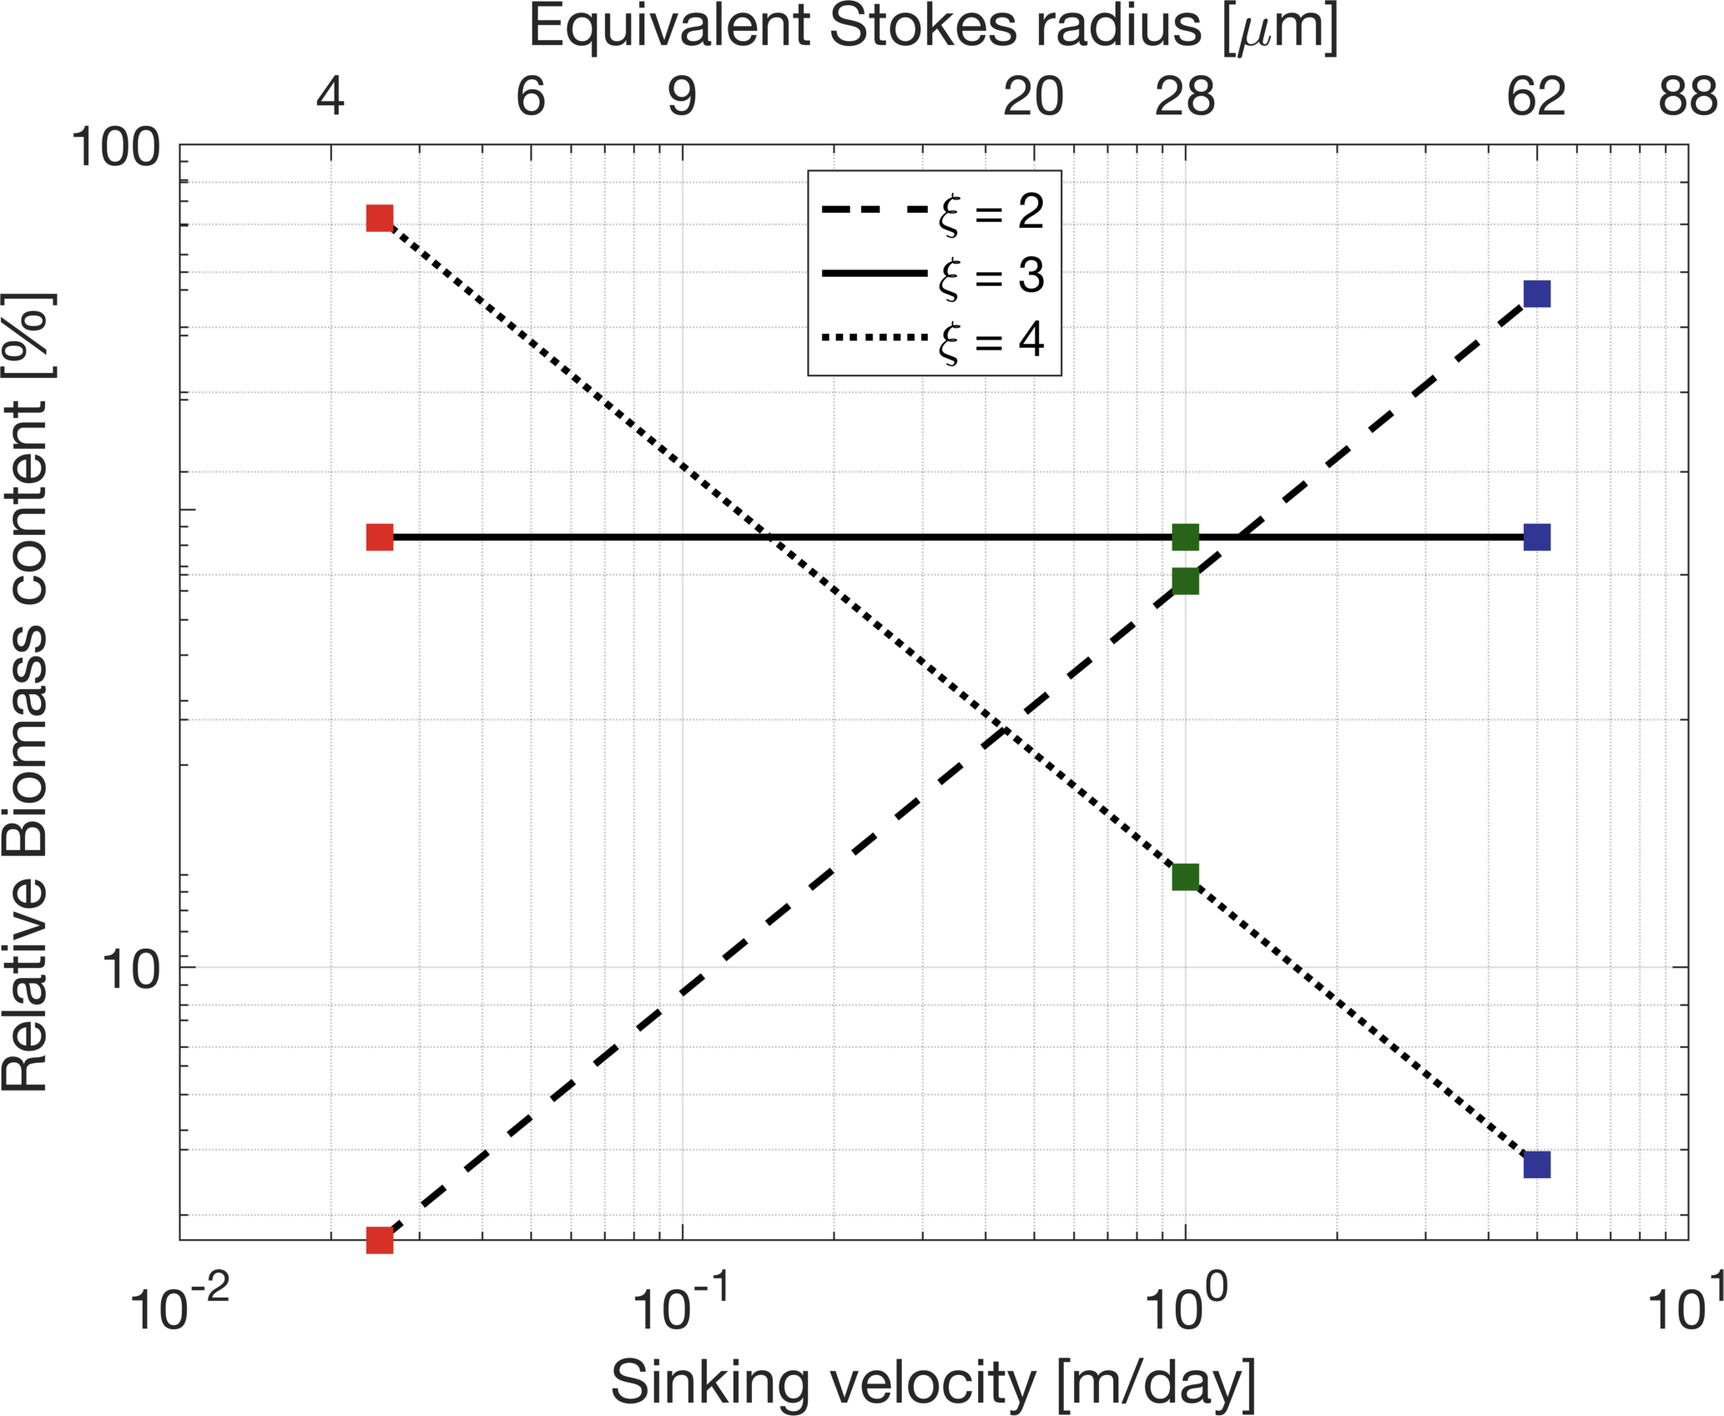
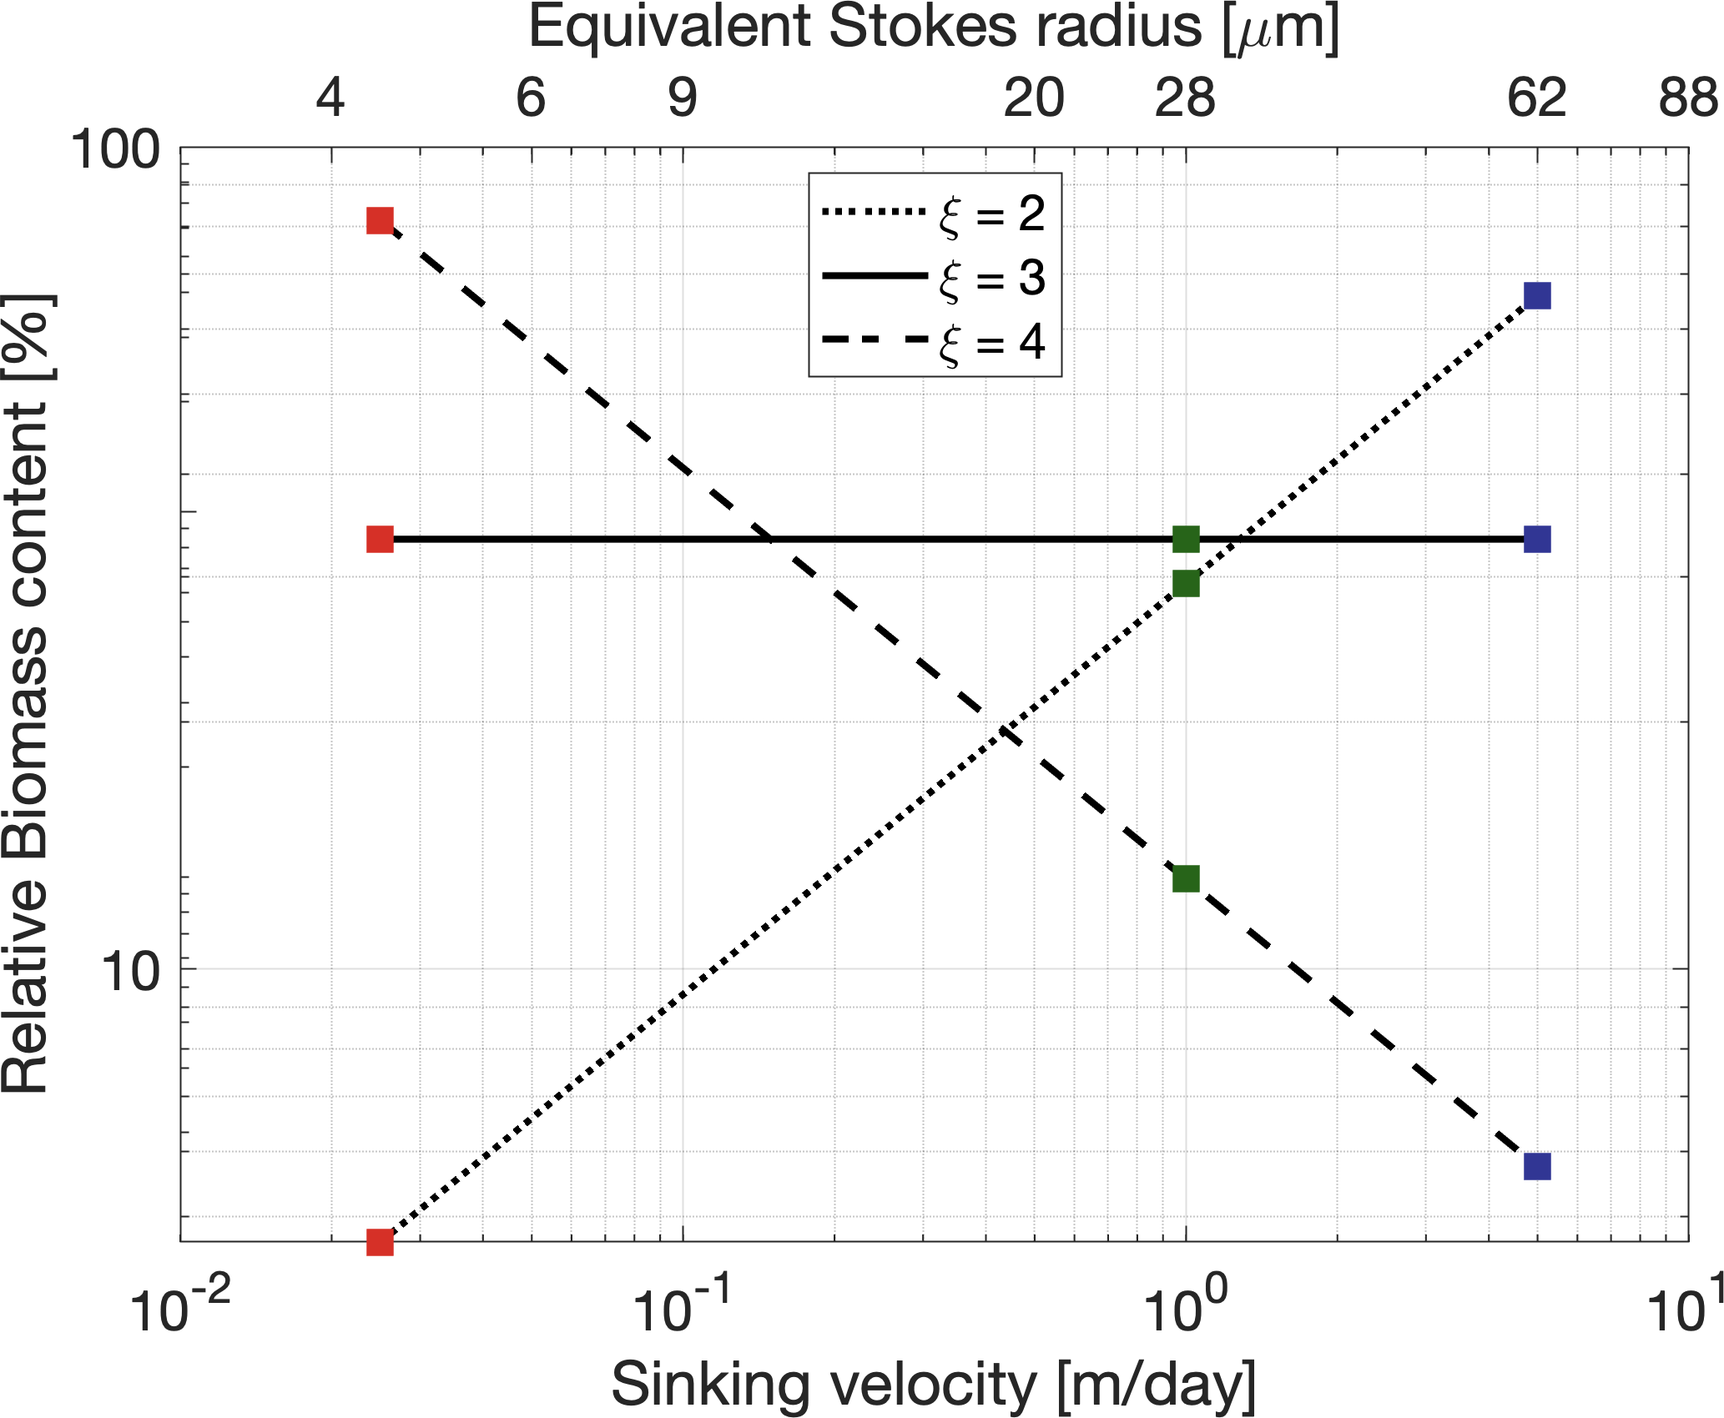
update revised manuscript
Not final version

diff --git a/Submission_and_reviews/response_to_reviewers.tex b/Submission_and_reviews/response_to_reviewers.tex
@@ -50,7 +50,7 @@ Response to reviewers\\}
 
 \section{Response to Editor's comments}
 
-Comments provided vby reviewer \#1 were very constructive and relevant. They lead to major changes in the manuscript, namely figure 7 and 8. It also led us to clarify some of the aspects of the manuscript, as the scientific reasoning behind some of the choices made (e.g., particle seeding depth). Most of the concerns rose by the reviewer were however related to the definition of an export horizon to quantify export. We argue, based on both our work and recent studies \citep{Palevsky_2018}, that the definition of an export horizon is not adequate and introduces subjectivity and biases in the results.
+Comments provided by reviewer \#1 are constructive and relevant. They lead to major changes in the manuscript, namely figure 7 and 8. It also led us to clarify some of the aspects of the manuscript, as the scientific reasoning behind some of the choices made (e.g., particle seeding depth). Most of the concerns rose by the reviewer were, however, related to the definition of an export horizon to quantify export. We argue, based on both our work and recent studies \citep{Palevsky_2018}, that the definition of an export horizon is not adequate and introduces subjectivity and biases in the results.
 
 
 
@@ -78,7 +78,7 @@ Based on this comment, the text has been modified in Section 2.2.2 to better jus
 \textit{Second, it is unclear why 5m/day is selected for the largest particle class. Studies using Underwater Vision Profilers reveal that a large portion of the particle flux is contributed by large aggregates of 0.1-5mm, which can have sinking speeds above 100m/day (see Guidi et al. 2008, Kiko et al. 2017). Comparing the summer and winter simulations, it seems that small particles only dominate the export flux when vertical advective velocities exceed the large particle sinking velocity. This condition would not be met if an aggregate particle class with sinking velocity of 100m/day were included. I suggest the inclusion of an additional "large aggregate" size class with appropriate sinking speed.\\}
 
 \textit{``it is unclear why 5m/day is selected for the largest particle class."\\}
-The choice of 5m/day sinking rates as the ``face-sinking"  class is justified on lines 300-301 of the original manuscript. It is based on the PDFs of the advective vertical velocity. In our case, 5 m/day is faster than 85-90\% of the vertical velocity modeled in our domain at any given time. We have added some text in Section 2.2.2 to make the justification clearer to the reader.\\
+The choice of 5m/day sinking rates as the ``fast-sinking"  class is justified on lines 300-301 of the original manuscript. It is based on the PDFs of the advective vertical velocity. In our case, 5 m/day is faster than 85-90\% of the vertical velocity modeled in our domain at any given time. We have added some text in Section 2.2.2 to make the justification clearer to the reader.\\
 
 \textit{``Comparing the summer and winter simulations, it seems that small particles only dominate the export flux when vertical advective velocities exceed the large particle sinking velocity."\\}
 This is therefore not exact in this case. As mentioned, at any given time, between 10 and 15\% of the vertical velocity over the model domain is larger than 5 m/day -- our fastest sinking rate -- and an even smaller percentage is sampled by the Lagrangian particles. If \textit{``vertical advective velocities exceed the large particle sinking velocity"}, it is temporary and very rare.\\
@@ -120,7 +120,7 @@ This is a good example of how defining an arbitrary export horizon can skew the 
 
 \textit{I suggest the authors repeat their analysis, comparing time-integrated export through 100m in order to assess the contribution of large vs. small particles.\\}
 
-This was the original direction that we took for this study. However, we came to realize that looking at time-integrated export introduces large complications, the main ones being: (1) It requires defining an export depth, and (2) The one-time particle seeding strategy becomes inappropriate. Constant reseeding becomes necessary, which is operationally constraining, (3) the timescales integrated over drives the result. If particles are tracked for an infinitely long time, they will eventually all be exported, and the dominant particle class is only a function of the Junge slope. If particles are tracked for long enough for one class to cross the export horizon, but not other classses (as it would be the case for a horizon defined a t100 m), then the export would artificially be driven by the fast sinking particles.
+This was the original direction that we took for this study. However, we came to realize that looking at time-integrated export introduces large complications, the main ones being: (1) It requires defining an export depth, and (2) The one-time particle seeding strategy becomes inappropriate. Constant reseeding becomes necessary, which is operationally constraining, (3) the timescales integrated over drives the result. If particles are tracked for an infinitely long time, they will eventually all be exported, and the dominant particle class is only a function of the Junge slope. If particles are tracked for long enough for one class to cross the export horizon, but not other classes (as it would be the case for a horizon defined a t100 m), then the export would artificially be driven by the fast sinking particles.
 
 \subsection*{Minor comments}
 \textit{Line 306: Is it three weeks, or 28 days (four weeks)?}\\
@@ -134,9 +134,11 @@ This was the original direction that we took for this study. However, we came to
 \rep{We would first like to thank this Reviewer for these very on-point and constructive reviews. They were very helpful to make the manuscript stronger!}
 
 \section*{Range of sinking speeds.}
-The sinking speed examined by the authors are 0.025, 0.05, 1 and 5 m/d. All these values would be considered as "slow sinking rate" by the community. Yet, the manuscript concludes on the relative contribution of slow and fast sinking particles, which is misleading. It also means that the authors cannot really conclude about the relative role of particles that have sinking rates similar in magnitude or faster than submesoscale motions (i.e. 50-300 m/d).
+\textit{The sinking speed examined by the authors are 0.025, 0.05, 1 and 5 m/d. All these values would be considered as "slow sinking rate" by the community. Yet, the manuscript concludes on the relative contribution of slow and fast sinking particles, which is misleading. It also means that the authors cannot really conclude about the relative role of particles that have sinking rates similar in magnitude or faster than submesoscale motions (i.e. 50-300 m/d).\\}
 
-\note{The three sinking rates were defined based on having one class virtually non-sinking (0.025 m/day), one class within the range of $w$ measured in summer (1 m/day, which is the \#\# percentile of the PDF for $w$ showed in Fig 5), and one class with similar magnitude than $w$ observed at submesoscale in the winter case (1 m/day, which is the \#\# percentile of the PDF for $w$ showed in Fig 5). Selecting a sinking rate much faster than that would bring us back to the traditional 1D model, as the sinking rate would greatly dominate the vertical flux. The objective of the study is to capture that transitional part of the size spectrum. Station Papa remains a relatively calm region, so submesoscale $w$ are of the order of 50 m/day. Other regions with stronger vorticity would have $w$ of the order of magnitude you suggest ($\sim$ 100 m/day) and would affect a greater part of the particle size spectrum.}
+The three sinking rates were defined based on having one class virtually non-sinking (0.025 m/day), one class within the range of $w$ modeled (1 m/day), and one class larger than $w$ modeled at submesoscale in the winter case (5 m/day). In fact, at any given time, at least 85\% of the modeled vertical velocity is smaller than 5 m/day -- our fastest sinking rate -- and an even larger percentage is sampled by the Lagrangian particles. For all intents and purposes, a 5 m/day sinking particle is ``fast" compared to the dynamical flow of the simulations. Any particle class with a faster sinking rate would behave in a predictable way, as vertical velocity is dominated by sinking. We modified the text in Section 2.2.2 to clarify this (Line 304 - 307)
+
+, which is the 90percentile of the PDF for $w$ showed in Fig 5). Selecting a sinking rate much faster than that would bring us back to the traditional 1D model, as the sinking rate would greatly dominate the vertical flux. The objective of the study is to capture that transitional part of the size spectrum. Station Papa remains a relatively calm region, so submesoscale $w$ are of the order of 50 m/day. Other regions with stronger vorticity would have $w$ of the order of magnitude you suggest ($\sim$ 100 m/day) and would affect a greater part of the particle size spectrum.
 
 \begin{itemize}
 	\item Throughout the text, the authors should be very clear about what they call fast and slow sinking particles. They should also compare the values they use to existing observations of rates. I recommend to see Baker et al 2017 or Riley et al 2016 for example who present in-situ observations of sinking speed and define slow $<$ 20 m/d and fast $>$ 20 m/d. Also note that this nomenclature is consistent with the rates used in ocean biogeochemical models, which usually have a fast sinking rate of 50-200 m/d, and sometimes an additional pool with slow sinking rate of 1-5 m/d. 

diff --git a/figures/code/Fig1_model_domain.m b/figures/code/Fig1_model_domain.m
@@ -3,56 +3,61 @@ clear
 %% This code plot the model domain with the wind profile and the het flux 
 % meridoinal anomaly in 3 panels
 %%
-ii = 0;
-x = ncread(['/Volumes/garuda/Mathieu/output_Papa_Dx=500_from_1km/K1/full_',num2str(ii,'%05d'),'.cdf'],'xc')*1000;
-y = ncread(['/Volumes/garuda/Mathieu/output_Papa_Dx=500_from_1km/K1/full_',num2str(ii,'%05d'),'.cdf'],'yc')*1000;
-Z = ncread(['/Volumes/garuda/Mathieu/output_Papa_Dx=500_from_1km/K1/full_',num2str(ii,'%05d'),'.cdf'],'zc');
-z = squeeze(Z(1,1,:));
-rho = ncread(['/Volumes/garuda/Mathieu/output_Papa_Dx=500_from_1km/K1/full_',num2str(ii,'%05d'),'.cdf'],'rho');
-rho(1,:,:) = NaN; rho(end,:,:) = NaN;
-
-% Import the scale factor for restauration time scale
-filename = '/Volumes/garuda/Mathieu/output_Papa_Dx=500_from_1km/K1/scalefactor.out';
-delimiter = ','; startRow = 2; formatSpec = '%*s%s%[^\n\r]';
-fileID = fopen(filename,'r');
-dataArray = textscan(fileID, formatSpec, 'Delimiter', delimiter, 'TextType', 'string', 'HeaderLines' ,startRow-1, 'ReturnOnError', false, 'EndOfLine', '\r\n');
-fclose(fileID);
-raw = repmat({''},length(dataArray{1}),length(dataArray)-1);
-for col=1:length(dataArray)-1
-    raw(1:length(dataArray{col}),col) = mat2cell(dataArray{col}, ones(length(dataArray{col}), 1));
-end
-numericData = NaN(size(dataArray{1},1),size(dataArray,2));
-rawData = dataArray{1};
-for row=1:size(rawData, 1)
-    % Create a regular expression to detect and remove non-numeric prefixes and
-    % suffixes.
-    regexstr = '(?<prefix>.*?)(?<numbers>([-]*(\d+[\,]*)+[\.]{0,1}\d*[eEdD]{0,1}[-+]*\d*[i]{0,1})|([-]*(\d+[\,]*)*[\.]{1,1}\d+[eEdD]{0,1}[-+]*\d*[i]{0,1}))(?<suffix>.*)';
-    try
-        result = regexp(rawData(row), regexstr, 'names');
-        numbers = result.numbers;
-        
-        % Detected commas in non-thousand locations.
-        invalidThousandsSeparator = false;
-        if numbers.contains(',')
-            thousandsRegExp = '^\d+?(\,\d{3})*\.{0,1}\d*$';
-            if isempty(regexp(numbers, thousandsRegExp, 'once'))
-                numbers = NaN;
-                invalidThousandsSeparator = true;
-            end
-        end
-        % Convert numeric text to numbers.
-        if ~invalidThousandsSeparator
-            numbers = textscan(char(strrep(numbers, ',', '')), '%f');
-            numericData(row, 1) = numbers{1};
-            raw{row, 1} = numbers{1};
-        end
-    catch
-        raw{row, 1} = rawData{row};
-    end
-end
-scalefactor = cell2mat(raw(:, 1));
-clearvars filename delimiter startRow formatSpec fileID dataArray ans raw col numericData rawData row regexstr result numbers invalidThousandsSeparator thousandsRegExp;
-
+% ii = 0;
+% x = ncread(['/Volumes/mahadevanlab/mathieudever/PSOM_backup/PSOM_outputs/Papa_summer/full_',num2str(ii,'%05d'),'.cdf'],'xc')*1000;
+% y = ncread(['/Volumes/mahadevanlab/mathieudever/PSOM_backup/PSOM_outputs/Papa_summer/full_',num2str(ii,'%05d'),'.cdf'],'yc')*1000;
+% Z = ncread(['/Volumes/mahadevanlab/mathieudever/PSOM_backup/PSOM_outputs/Papa_summer/full_',num2str(ii,'%05d'),'.cdf'],'zc');
+% z = squeeze(Z(1,1,:));
+% rho = ncread(['/Volumes/mahadevanlab/mathieudever/PSOM_backup/PSOM_outputs/Papa_summer/full_',num2str(ii,'%05d'),'.cdf'],'rho');
+% rho(1,:,:) = NaN; rho(end,:,:) = NaN;
+% clear ii
+% 
+% % Import the scale factor for restauration time scale
+% filename = '/Volumes/mahadevanlab/mathieudever/PSOM_backup/PSOM_outputs/scalefactor.out';
+% delimiter = ','; startRow = 2; formatSpec = '%*s%s%[^\n\r]';
+% fileID = fopen(filename,'r');
+% dataArray = textscan(fileID, formatSpec, 'Delimiter', delimiter, 'TextType', 'string', 'HeaderLines' ,startRow-1, 'ReturnOnError', false, 'EndOfLine', '\r\n');
+% fclose(fileID);
+% raw = repmat({''},length(dataArray{1}),length(dataArray)-1);
+% for col=1:length(dataArray)-1
+%     raw(1:length(dataArray{col}),col) = mat2cell(dataArray{col}, ones(length(dataArray{col}), 1));
+% end
+% numericData = NaN(size(dataArray{1},1),size(dataArray,2));
+% rawData = dataArray{1};
+% for row=1:size(rawData, 1)
+%     % Create a regular expression to detect and remove non-numeric prefixes and
+%     % suffixes.
+%     regexstr = '(?<prefix>.*?)(?<numbers>([-]*(\d+[\,]*)+[\.]{0,1}\d*[eEdD]{0,1}[-+]*\d*[i]{0,1})|([-]*(\d+[\,]*)*[\.]{1,1}\d+[eEdD]{0,1}[-+]*\d*[i]{0,1}))(?<suffix>.*)';
+%     try
+%         result = regexp(rawData(row), regexstr, 'names');
+%         numbers = result.numbers;
+%         
+%         % Detected commas in non-thousand locations.
+%         invalidThousandsSeparator = false;
+%         if numbers.contains(',')
+%             thousandsRegExp = '^\d+?(\,\d{3})*\.{0,1}\d*$';
+%             if isempty(regexp(numbers, thousandsRegExp, 'once'))
+%                 numbers = NaN;
+%                 invalidThousandsSeparator = true;
+%             end
+%         end
+%         % Convert numeric text to numbers.
+%         if ~invalidThousandsSeparator
+%             numbers = textscan(char(strrep(numbers, ',', '')), '%f');
+%             numericData(row, 1) = numbers{1};
+%             raw{row, 1} = numbers{1};
+%         end
+%     catch
+%         raw{row, 1} = rawData{row};
+%     end
+% end
+% scalefactor = cell2mat(raw(:, 1));
+% clearvars filename delimiter startRow formatSpec fileID dataArray ans raw col numericData rawData row regexstr result numbers invalidThousandsSeparator thousandsRegExp;
+% 
+% save Fig1_data.mat
+%%
+clear
+load dataset/Fig1_data.mat
 
 figure
 pcolor(x/1000,y(2:end-1)/1000,repmat(scalefactor,1,length(x)));
@@ -94,4 +99,4 @@ ylabel('y [km]')
 
 
 set(gcf,'color','w')
-export_fig('Fig1_model_domain.png','-r200')
+%export_fig('Fig1_model_domain.png','-r200')

diff --git a/size_differentiated_export.tex b/size_differentiated_export.tex
@@ -6,6 +6,8 @@
 
 % Trackchanges package
 \usepackage{trackchanges}
+\soulregister\ref7
+\soulregister\cite7
 %% PLEASE USE THE FOLLOWING COMMANDS
 %   \note[editor]{The note} 
 %   \annote[editor]{Text to annotate}{The note} 
@@ -317,8 +319,7 @@
 	\begin{figure}[t!]
 		\centering
 		\includegraphics[width = 1\linewidth]{Fig8_revised.png}
-		\caption{\change{Probability Distribution Function (PDF) of relative biomass versus total vertical velocity along particle trajectories in the summer case [left] and winter case [right], ignoring [top] and including [bottom] particle remineralization, for $\xi$ = 4 and 25 days after particle release. Inserts show the integrated relative downward biomass flux associated with each sinking-velocity class, categorized according to their initial sinking velocity. Remineralization processes have the greatest impact on fast-sinking particles, especially in summer dynamics.}{Same as Figure \ref{fig: biomass_export}, but including particle remineralization (see Equation \ref{eq: sinking_velocity_remin}).}
-		}	
+		\caption{\change{Probability Distribution Function (PDF) of relative biomass versus total vertical velocity along particle trajectories in the summer case [left] and winter case [right], ignoring [top] and including [bottom] particle remineralization, for $\xi$ = 4 and 25 days after particle release. Inserts show the integrated relative downward biomass flux associated with each sinking-velocity class, categorized according to their initial sinking velocity. Remineralization processes have the greatest impact on fast-sinking particles, especially in summer dynamics.}{Same as Figure \ref{fig: biomass_export}, but including particle remineralization (see Equation \ref{eq: sinking_velocity_remin}).}}	
 		\label{fig: biomass_export_remin}
 	\end{figure}
 	In a advectively-driven system where $\left<w_sB\right> \sim \left<wB\right>$, the relative amount of biomass content in a particle class becomes important and dictates the respective contribution of each particle class to the total downward biomass fluxes. This shift from a gravitationally-driven to an advectively-driven system is observed when implementing particle remineralization in the summer (Figure \ref{fig: biomass_export_remin}\remove{c}): in the absence of remineralization, faster-sinking particles dominate the downward biomass fluxes (\change{60}{53}\%; see Figure \ref{fig: biomass_export}c). When remineralization processes are considered, slower-sinking particles \change{become the dominant contributor}{contribute more} to biomass fluxes (see inset in Figure \ref{fig: biomass_export_remin}c). As shown in Figure \ref{fig: biomass_export}, downward biomass fluxes in the wintertime are generally advectively-driven, due to the larger vertical velocities associated with wintertime ocean dynamics. Biomass fluxes are dominated by the slower-sinking particles \add{when $\xi =4$}, representing 79\% of the downward biomass flux (Figure \ref{fig: biomass_export}d). Even after implementing the remineralization scheme, slower-sinking particles remain the largest contributor to downward biomass fluxes (82\%; see Figure \ref{fig: biomass_export_remin}d).

diff --git a/figures/code/Fig4.m b/figures/code/Fig4.m
@@ -52,8 +52,8 @@ figure(2)
 thew = [0.025 1 5];
 h1 = loglog(thew,[B0025_3 B1_3 B5_3]./sum([B0025_3 B1_3 B5_3])*100,'-k','linewidth',2);
 hold on
-h2 = loglog(thew,[B0025_2 B1_2 B5_2]./sum([B0025_2 B1_2 B5_2])*100,'--k','linewidth',2);
-h3 = loglog(thew,[B0025_4 B1_4 B5_4]./sum([B0025_4 B1_4 B5_4])*100,':k','linewidth',2);
+h2 = loglog(thew,[B0025_2 B1_2 B5_2]./sum([B0025_2 B1_2 B5_2])*100,':k','linewidth',2);
+h3 = loglog(thew,[B0025_4 B1_4 B5_4]./sum([B0025_4 B1_4 B5_4])*100,'--k','linewidth',2);
 
 
 scatter(thew,[B0025_3 B1_3 B5_3]./sum([B0025_3 B1_3 B5_3])*100,100,cat(1,color0025,color1,color5),'s','filled');
